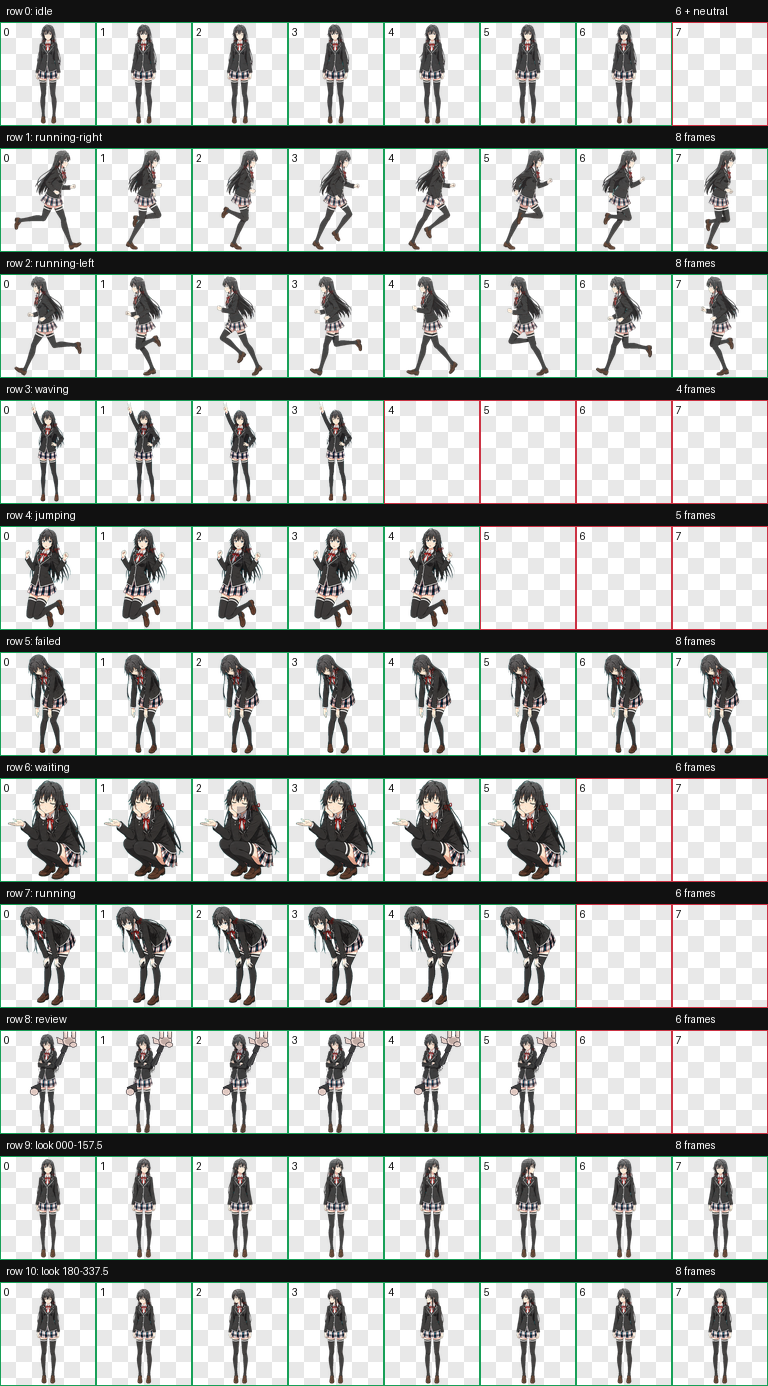
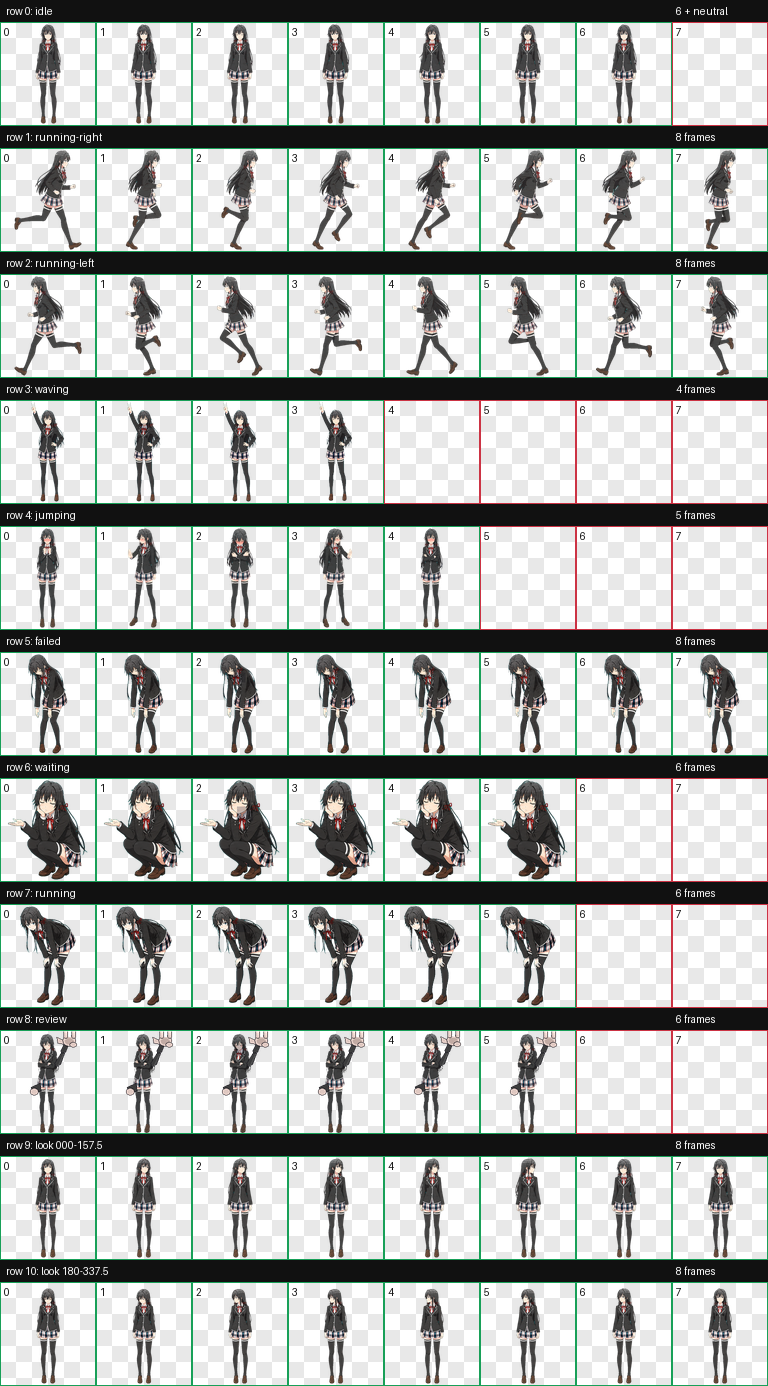
fix: smooth hover animation transition

diff --git a/README.md b/README.md
@@ -2,7 +2,7 @@
 
 [English](README.en.md) · [安装指南](docs/INSTALLATION.md) · [交互设计](docs/INTERACTION_DESIGN.md) · [动画协议](docs/SPRITE_CONTRACT.md) · [维护手册](docs/MAINTENANCE.md)
 
-一个非官方、非商业的雪之下雪乃风格 Codex v2 动态宠物项目。它采用正常动漫人体比例与 galgame 式表演，但把事件动作改成在原生尺寸下一眼能懂的全身姿态：举手致意、屈膝张臂拒触、低头垂肩失败、蹲下托掌等待、弯腰检查，以及叉臂举起✌完成。
+一个非官方、非商业的雪之下雪乃风格 Codex v2 动态宠物项目。它采用正常动漫人体比例与 galgame 式表演，但把事件动作改成在原生尺寸下一眼能懂的全身姿态：举手致意、脸红并左右抬手制止、低头垂肩失败、蹲下托掌等待、弯腰检查，以及叉臂举起✌完成。
 
 > [!IMPORTANT]
 > 这是同人衍生项目，与 OpenAI、渡航、小学馆、动画制作委员会及相关权利方均无官方关联。角色与原作相关权利归各自权利方所有。仓库中的代码和文档可按 MIT 条款使用；角色衍生精灵图不在 MIT 授权范围内，详见 [ASSET_NOTICE.md](ASSET_NOTICE.md) 与 [LICENSE](LICENSE)。
@@ -162,9 +162,9 @@ Codex CLI：
 - 正常 6.5–7 头身动漫比例，不使用 Q 版或卡通小人造型。
 - 九类标准状态：待机、左右移动、招手、悬停反应、失败、等待、工作、审阅。
 - 16 个顺时针鼠标视线方向，眼睛与头颈主导，躯干保持 galgame 式稳定。
-- 悬停采用五帧屈膝张臂拒触定格，以大轮廓代替低分辨率下难辨认的细小摇头动作。
+- 悬停采用五阶段站立拒触：胸前蓄势、左侧抬手制止、中间收臂、右侧抬手制止、回到胸前蓄势；首尾都接近待机站姿。
 - 原生桌面端会把非待机动作固定播放三遍；macOS 26.721.41059 可使用仓库内的版本锁定补丁改为单次播放并将帧时长放慢 2 倍。
-- 事件语义主要由举手、屈膝张臂、低头垂肩、蹲下托掌、弯腰和叉臂✌等全身轮廓表达，而不是依赖难以辨认的微表情。
+- 事件语义主要由举手、左右制止手势、低头垂肩、蹲下托掌、弯腰和叉臂✌等全身轮廓表达，而不是依赖难以辨认的微表情。
 - 原生 `192x208` 清晰度通过高对比眼眉、发饰、制服滚边、手部和鞋子轮廓，以及简化碎小纹理来保证。
 - WebP 使用无损 RGBA；最终产物与 PNG 像素一致。
 - 色键清理、图集结构、盲方向测试和独立视觉 QA 均已通过。
@@ -184,7 +184,7 @@ python scripts/generate_runtime_showcase.py
 | 操作或任务状态 | Codex 动画行 | 雪乃的动作 |
 | --- | --- | --- |
 | 第一次唤醒宠物 | `waving` | 保持举手致意定格（仅轻微眨眼/呼吸）。 |
-| 鼠标进入宠物区域 | `jumping / hover` | 保持张臂拒触定格（不再循环摇头）。 |
+| 鼠标进入宠物区域 | `jumping / hover` | 从胸前蓄势依次做左侧制止、收臂、右侧制止，再平滑回到站立蓄势。 |
 | 向右拖动宠物 | `running-right` | 朝屏幕右侧奔跑。 |
 | 向左拖动宠物 | `running-left` | 朝屏幕左侧奔跑。 |
 | 鼠标在宠物周围移动 | `look directions` | 眼睛、头颈和头发按 16 个方向追随指针。 |

diff --git a/docs/INTERACTION_DESIGN.md b/docs/INTERACTION_DESIGN.md
@@ -24,7 +24,7 @@ not choose which application event activates a state.
 | User or task operation | Runtime state / row | Yukino action |
 | --- | --- | --- |
 | Wake the pet for the first time | `waving`, row 3 | Holds a raised-hand greeting pose with only a tiny blink/bob. |
-| Move the pointer onto the pet | `jumping`, row 4 | Holds a wide-arm, red-face refusal pose (no multi-cycle head-shake). |
+| Move the pointer onto the pet | `jumping`, row 4 | Blushes and moves through left stop hand, center arm fold, right stop hand, and a matched standing recovery. |
 | Drag the pet toward screen-right | `running-right`, row 1 | Runs toward screen-right while being dragged. |
 | Drag the pet toward screen-left | `running-left`, row 2 | Runs toward screen-left while being dragged. |
 | Move the pointer around the pet while look tracking is active | rows 9–10 | Eyes, head, neck, and hair follow the pointer through sixteen directions. |
@@ -78,10 +78,12 @@ registration, not by violating the frame contract.
 
 ### Five-frame hover acting plan
 
-All five used cells preserve the same dominant bent-knee, raised-arm refusal
-silhouette. Any adjacent-frame change is limited to tiny eye, hair, or breathing
-settles; the action no longer depends on a multi-step head shake that becomes
-unclear at native size.
+1. **Anticipation** — blushes with both hands held clearly near the chest.
+2. **Left stop** — turns slightly and presents one large stop palm.
+3. **Center fold** — returns through center with both arms visibly gathered.
+4. **Right stop** — presents the matching stop palm on the other side.
+5. **Recovery** — returns to the same chest-level anticipation pose so the
+   following idle frame does not create a full-body hard cut.
 
 ![Hover animation](../previews/hover.gif)
 
@@ -133,7 +135,7 @@ silhouettes:
 | State | Dominant readable silhouette |
 | --- | --- |
 | waving | raised open palm plus visible formal bow |
-| jumping / hover | red-faced left–center–right head shake with stop palm |
+| jumping / hover | red-faced left stop, center arm fold, right stop, recovery |
 | failed | lowered head, drooped shoulders, and both arms hanging |
 | waiting | compact low crouch with an open waiting/thinking palm |
 | running | 25–35 degree waist bend for close inspection |

diff --git a/README.en.md b/README.en.md
@@ -2,7 +2,7 @@
 
 [中文说明](README.md) · [Installation](docs/INSTALLATION.md) · [Interaction design](docs/INTERACTION_DESIGN.md)
 
-An unofficial, non-commercial Yukinoshita Yukino-inspired animated pet for Codex. It uses the Codex v2 8×11 sprite contract and normal anime proportions, with large pose-hold event silhouettes readable at native size: raised-hand greeting, bent-knee refusal, head-down failure, crouched open-palm waiting, waist-bent inspection, and an arms-crossed peace-sign finish.
+An unofficial, non-commercial Yukinoshita Yukino-inspired animated pet for Codex. It uses the Codex v2 8×11 sprite contract and normal anime proportions, with readable event acting at native size: raised-hand greeting, a five-stage left/center/right stop-hand refusal, head-down failure, crouched open-palm waiting, waist-bent inspection, and an arms-crossed peace-sign finish.
 
 ## Install with a coding agent
 
@@ -60,7 +60,7 @@ Codex controls the fixed row timing and repeat count. The pet cannot change thos
 | Operation or task status | State | Yukino action |
 | --- | --- | --- |
 | First wake | `waving` | Holds a raised-hand greeting pose. |
-| Pointer enters the pet | `jumping / hover` | Holds a wide-arm refusal pose. |
+| Pointer enters the pet | `jumping / hover` | Moves through anticipation, left stop hand, center arm fold, right stop hand, and a matched standing recovery. |
 | Drag right / left | `running-right` / `running-left` | Runs in the drag direction. |
 | Pointer moves around the pet | look rows | Eyes, head, neck, and hair follow sixteen directions. |
 | Task is actively working | `running` | Holds a deep waist-bent inspection pose. |

diff --git a/docs/QUALITY_ASSURANCE.md b/docs/QUALITY_ASSURANCE.md
@@ -69,8 +69,8 @@ failure only when normal-size playback shows a conspicuous defect.
 ### Event-action rows
 
 - waving clearly raises an open palm and bends into a formal bow;
-- hover reads as a red-faced left-center-right head shake with a stop palm and
-  never lifts either foot;
+- hover uses five distinct standing stages with stable scale and baseline:
+  anticipation, left stop, center arm fold, right stop, and recovery;
 - failed clearly lowers the head and shoulders with both arms hanging;
 - waiting visibly lowers into a compact crouch, holds, and rises without scale
   popping;

diff --git a/docs/PROJECT_OVERVIEW.md b/docs/PROJECT_OVERVIEW.md
@@ -80,7 +80,7 @@ The current release has:
 - passing hard cardinal direction blind tests;
 - reviewed intermediate direction warnings;
 - independent approval of all six repaired event-action rows at native size;
-- raised-hand, bent-knee refusal, head-down failure, open-palm crouch,
+- raised-hand, left/center/right stop-hand refusal, head-down failure, open-palm crouch,
   waist-bend, and foreground peace-sign silhouettes
   that remain readable under the fixed runtime timing;
 - documented renderer behavior showing three copies of every non-idle action

diff --git a/CHANGELOG.md b/CHANGELOG.md
@@ -22,6 +22,13 @@ Versioning for repository releases; the installed pet id remains
 - Documented the macOS Files and Folders permission reset that can follow an
   application-signature change.
 
+### Fixed
+
+- Replaced the hover row's four near-identical frames plus abrupt final swap
+  with a continuous five-stage standing refusal: anticipation, left stop,
+  center arm fold, right stop, and matched recovery.
+- Preserved every atlas row except row 4 during the targeted hover repair.
+
 ## [1.5.0] - 2026-07-25
 
 ### Changed
